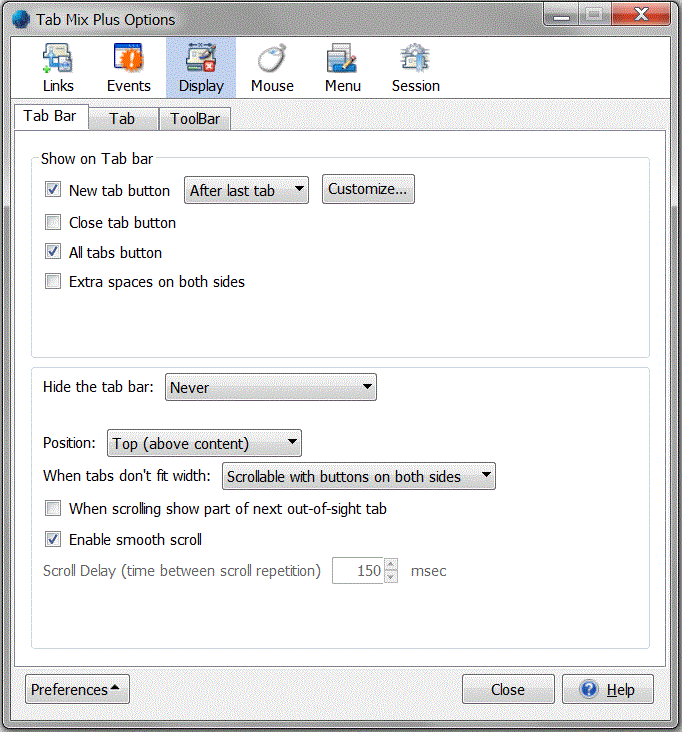
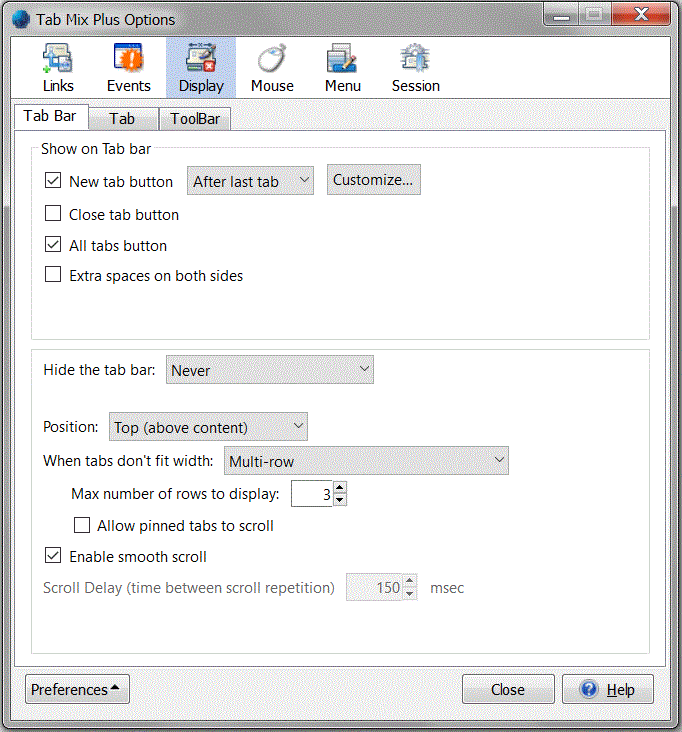
Update help about 'Allow pinned tabs to scroll'

diff --git a/help/data/display-tab-bar.html b/help/data/display-tab-bar.html
@@ -84,6 +84,13 @@
                 display, scroll arrows will appear on the right side of the tabs.
             </p>
           </li>
+          <li>Allow pinned tabs to scroll - for Multi-row option
+            <p class="comment justify">
+              By default, pin tabs are stick to the first row and stay visible all the time,
+              enable this options if you don't want pinned tabs to stick to the first row.<br>
+              <span class="default">You must</span> use this option if you have more than one row of pinned tabs.
+            </p>
+          </li>
           <li>When scrolling, show part of next out-of-sight tab - for single row options</li>
           <li>Enable smooth scroll - scroll the tab-bar smoothly</li>
           <li>Scroll Delay (time between scroll repetition <span class="default">150 milliseconds is default</span>)<br>
